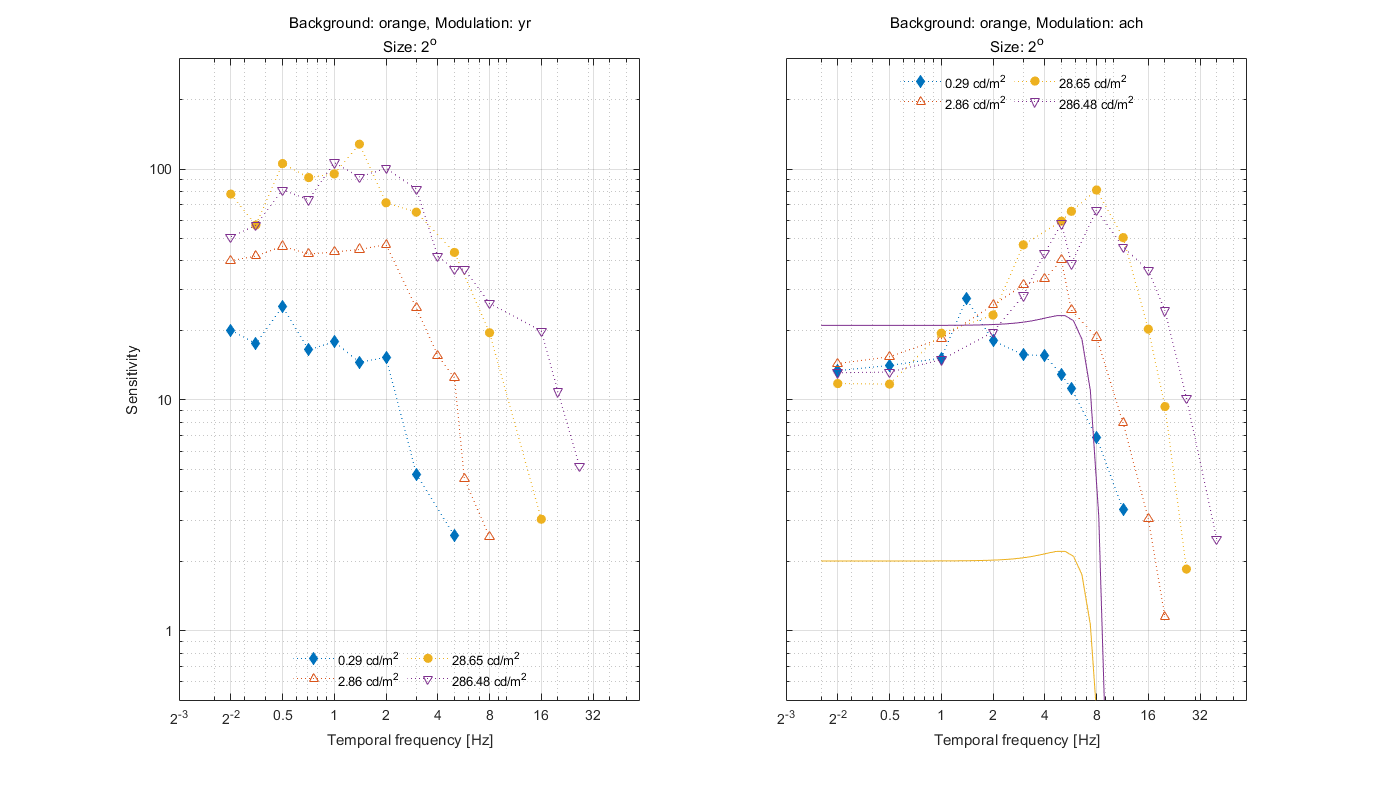
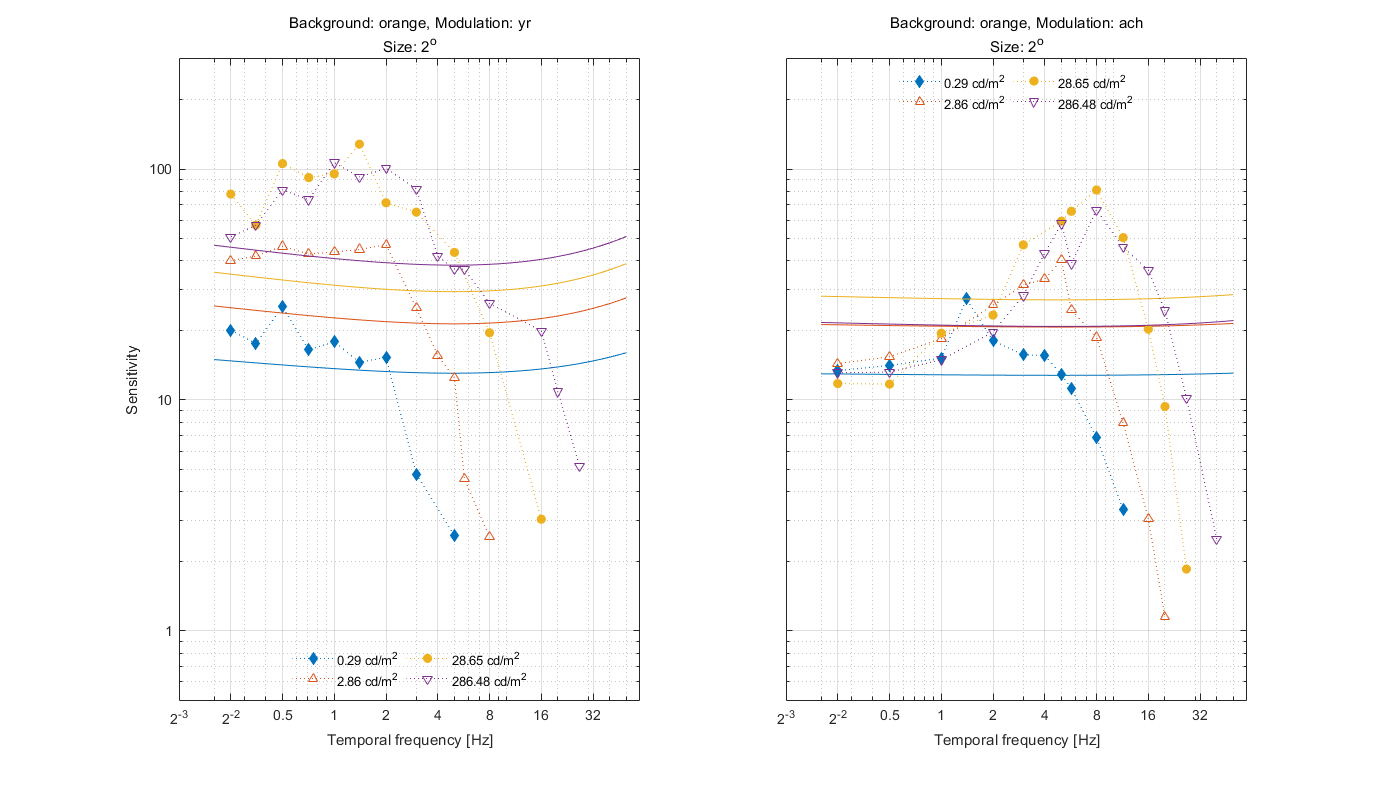
castleCSF share results

diff --git a/share/csf-castle/index.html b/share/csf-castle/index.html
@@ -15,43 +15,44 @@ function detectLeftButton(evt) {
 <h1>Fitting of chromatic Gabor and Disc datasets</h1>
 <h2>Fitting error</h2>
 <TABLE>
-<tr><td rowspan="2">Dataset</td><td colspan="1">Fitting error</td><td colspan="1">Sensitivity adjustment</td></tr><tr><td><a href="#castle-csf">castleCSF</a></td><td><a href="#castle-csf">castleCSF</a></td></tr><tr><td>Average training</td><td>NaN [dB]</td><td>N/A</td></tr><tr><td><a href="#modelfest">modelfest</a></td><td>2.58 [dB]</td><td>1.000</td></tr><tr><td><a href="#colorfest">colorfest</a></td><td>3.05 [dB]</td><td>1.032</td></tr><tr><td><a href="#hdrvdp_csf">hdrvdp_csf</a></td><td>3.24 [dB]</td><td>1.367</td></tr><tr><td><a href="#hdr_csf">hdr_csf</a></td><td>3.93 [dB]</td><td>1.000</td></tr><tr><td><a href="#hdr_csf_disc">hdr_csf_disc</a></td><td>2.73 [dB]</td><td>1.325</td></tr><tr><td><a href="#anderson1991">anderson1991</a></td><td>NaN [dB]</td><td>1.000</td></tr><tr><td><a href="#virsu1979">virsu1979</a></td><td>4.87 [dB]</td><td>1.598</td></tr><tr><td><a href="#virsu1982">virsu1982</a></td><td>6.27 [dB]</td><td>0.588</td></tr><tr><td><a href="#robson1966">robson1966</a></td><td>8.56 [dB]</td><td>0.687</td></tr><tr><td><a href="#rovamo1993">rovamo1993</a></td><td>3.53 [dB]</td><td>1.868</td></tr><tr><td><a href="#vanderHorst1969_a">vanderHorst1969_a</a></td><td>5.78 [dB]</td><td>0.626</td></tr><tr><td><a href="#vanderHorst1969_b">vanderHorst1969_b</a></td><td>4.43 [dB]</td><td>0.458</td></tr></TABLE>
+<tr><td rowspan="2">Dataset</td><td colspan="1">Fitting error</td><td colspan="1">Sensitivity adjustment</td></tr><tr><td><a href="#castle-csf">castleCSF</a></td><td><a href="#castle-csf">castleCSF</a></td></tr><tr><td>Average training</td><td>NaN [dB]</td><td>N/A</td></tr><tr><td><a href="#modelfest">modelfest</a></td><td>2.77 [dB]</td><td>1.115</td></tr><tr><td><a href="#colorfest">colorfest</a></td><td>3.13 [dB]</td><td>1.149</td></tr><tr><td><a href="#hdrvdp_csf">hdrvdp_csf</a></td><td>3.20 [dB]</td><td>1.473</td></tr><tr><td><a href="#hdr_csf">hdr_csf</a></td><td>3.96 [dB]</td><td>1.000</td></tr><tr><td><a href="#hdr_csf_disc">hdr_csf_disc</a></td><td>2.86 [dB]</td><td>1.536</td></tr><tr><td><a href="#anderson1991">anderson1991</a></td><td>NaN [dB]</td><td>1.000</td></tr><tr><td><a href="#virsu1979">virsu1979</a></td><td>5.57 [dB]</td><td>1.752</td></tr><tr><td><a href="#virsu1982">virsu1982</a></td><td>6.22 [dB]</td><td>0.656</td></tr><tr><td><a href="#robson1966">robson1966</a></td><td>8.51 [dB]</td><td>0.785</td></tr><tr><td><a href="#rovamo1993">rovamo1993</a></td><td>3.27 [dB]</td><td>2.115</td></tr><tr><td><a href="#vanderHorst1969_a">vanderHorst1969_a</a></td><td>5.72 [dB]</td><td>0.864</td></tr><tr><td><a href="#vanderHorst1969_b">vanderHorst1969_b</a></td><td>4.23 [dB]</td><td>0.624</td></tr><tr><td><a href="#swanson1986">swanson1986</a></td><td>8.11 [dB]</td><td>0.156</td></tr></TABLE>
 <h2>Model parameters</h2>
 <div class="params_frame">
 <div align="center">castleCSF</div>
 <div style="white-space: pre-line;">
-	p.sust(1).S_max = [ 151.552 121187 0.0924618 0.000384336 3.8667e+06 ];
-	p.sust(1).f_max = [ 2.57121 466.859 0.398087 ];
-	p.sust(1).bw = 1.21262;
-	p.sust(1).A0 = 37309.8;
-	p.sust(1).f0 = 0.0175218;
-	p.sust(2).S_max = [ 7943.82 10331.3 0.592451 ];
-	p.sust(2).f_max = 1.21306;
+	p.sust(1).S_max = [ 77.4505 126030 0.0548192 0.000507155 5.10945e+06 ];
+	p.sust(1).f_max = [ 2.98369 858.199 0.393315 ];
+	p.sust(1).bw = 1.28183;
+	p.sust(1).A0 = 38512.9;
+	p.sust(1).f0 = 0.018085;
+	p.sust(2).S_max = [ 41161.9 2806.78 0.710172 ];
+	p.sust(2).f_max = 1.15286;
 	p.sust(2).bw = 2.04656e-111;
-	p.sust(2).A0 = 62.6841;
-	p.sust(2).f0 = 0.360679;
-	p.sust(3).S_max = [ 7840.07 41825.6 0.486157 ];
-	p.sust(3).f_max = 1.2913;
+	p.sust(2).A0 = 70.8068;
+	p.sust(2).f0 = 0.0512302;
+	p.sust(3).S_max = [ 14230.5 31384.3 0.445065 ];
+	p.sust(3).f_max = 1.34482;
 	p.sust(3).bw = 0;
-	p.sust(3).A0 = 2.99943;
-	p.sust(3).f0 = 0.127993;
-	p.trans(1).S_max = [ 1.00051e-223 133.807 ];
-	p.trans(1).f_max = 0.737512;
+	p.sust(3).A0 = 4.76033;
+	p.sust(3).f0 = 0.0283732;
+	p.trans(1).S_max = [ 1.00051e-223 296.451 ];
+	p.trans(1).f_max = 0.541555;
 	p.trans(1).bw = 3.39404e-24;
-	p.trans(1).A0 = 2522.98;
-	p.trans(1).f0 = 0.326374;
-	p.trans(2).S_max = [ 0.0397173 83.7346 ];
-	p.trans(2).f_max = 0.279928;
-	p.trans(2).bw = 0.660327;
+	p.trans(1).A0 = 2941.03;
+	p.trans(1).f0 = 0.377208;
+	p.trans(2).S_max = [ 0.109158 87.8571 ];
+	p.trans(2).f_max = 0.0740562;
+	p.trans(2).bw = 1.32695;
 	p.trans(2).A0 = 3.5313e+18;
 	p.trans(2).f0 = 2.9904e+28;
-	p.trans(3).S_max = [ 0.101422 14.1032 ];
-	p.trans(3).f_max = 0.862238;
+	p.trans(3).S_max = [ 0.0873769 5.24281 ];
+	p.trans(3).f_max = 0.808693;
 	p.trans(3).bw = 0;
-	p.trans(3).A0 = 8.81386e+22;
-	p.trans(3).f0 = 1.86456e+56;
-	p.sigma_sust = [ Inf 7.77542e+56 Inf ];
-	p.sigma_trans = [ 3.19639 2.04153 Inf ];
+	p.trans(3).A0 = 947.49;
+	p.trans(3).f0 = 7.54011;
+	p.sigma_sust = [ 505735 5632.28 3346.03 ];
+	p.sigma_trans = [ 2.93136 1.91577 1.5391 ];
+	p.colmat = [ 0.00123883 0.229778 0.932581 1.07013 6.41585e-07 0.0037047 ];
 
 M_lms2acc =
 
@@ -146,6 +147,16 @@ M_lms2acc =
 <br/></div>
 <div>Chromatic contrast thresholds for travelling sine waves as function of temporal frequency<br/>
 <img src="fig_vanderHorst1969_b_6.png"/>
+<br/></div>
+<h2 id="swanson1986"><a class="top_align_button" href="#swanson1986">&#8632;</a>Dataset: [swanson1986] Swanson et al. 1986</h2>
+<div>Temporal contrast sensitivity of flickering disc stimuli for different luminances<br/>
+<img src="fig_swanson1986_1.png"/>
+<br/></div>
+<div>Temporal achromatic contrast sensitivity of flickering disc stimuli for different sizes<br/>
+<img src="fig_swanson1986_2.png"/>
+<br/></div>
+<div>Temporal chromatic contrast sensitivity of flickering disc stimuli for different sizes<br/>
+<img src="fig_swanson1986_3.png"/>
 <br/></div>
 </body>
 </html>
